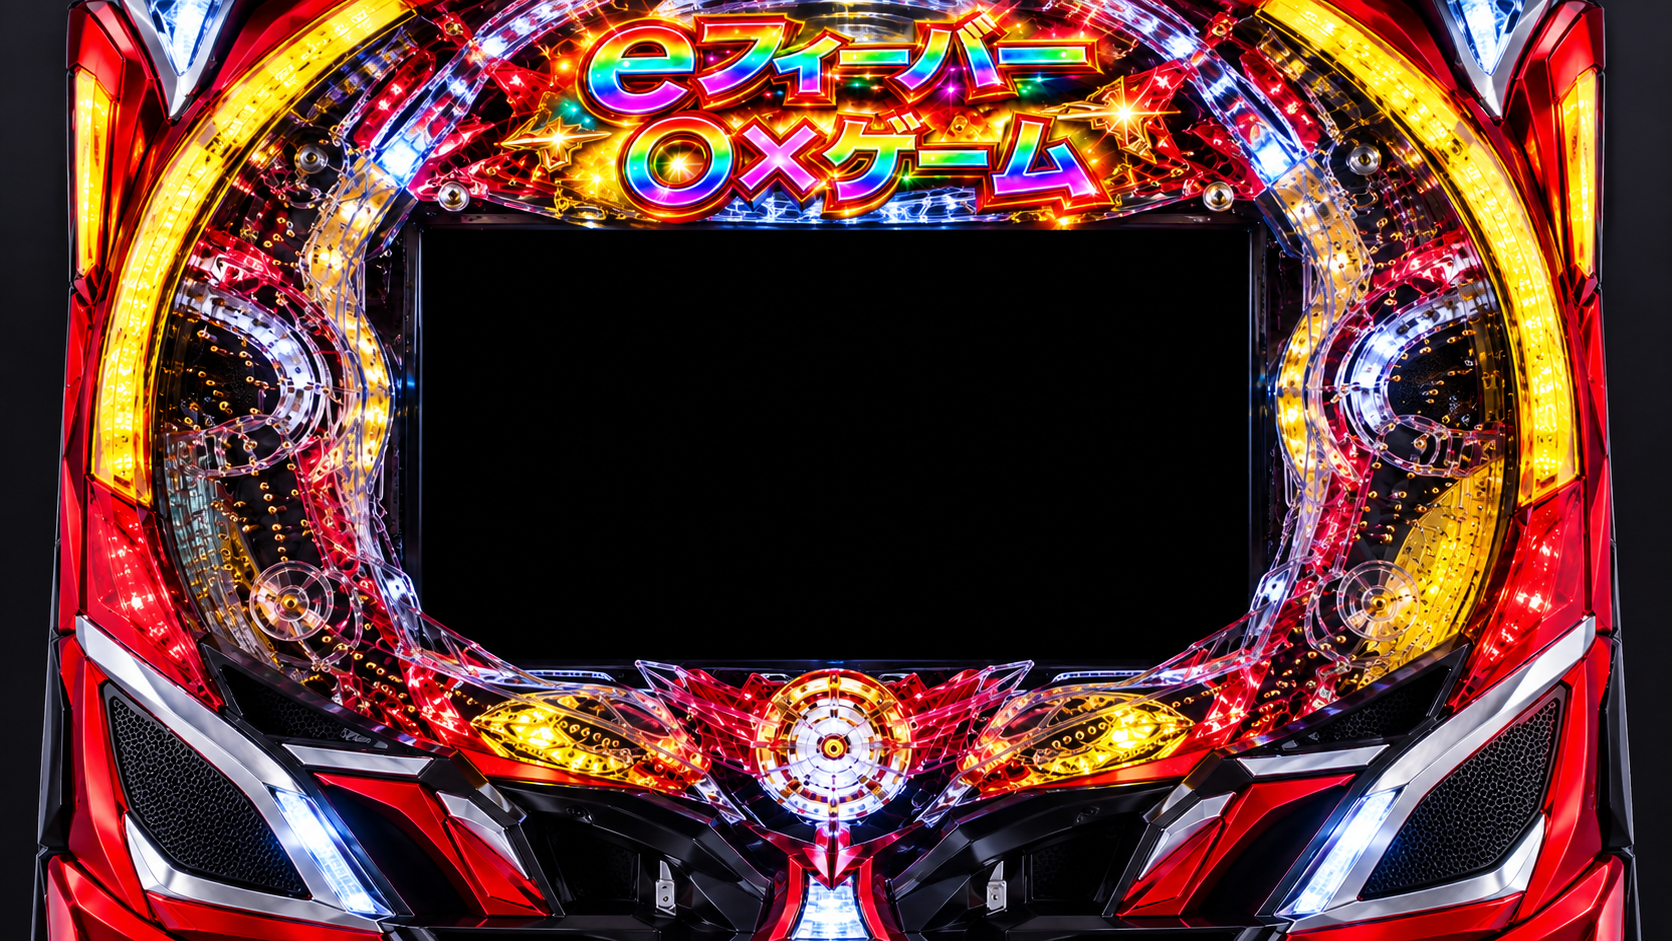
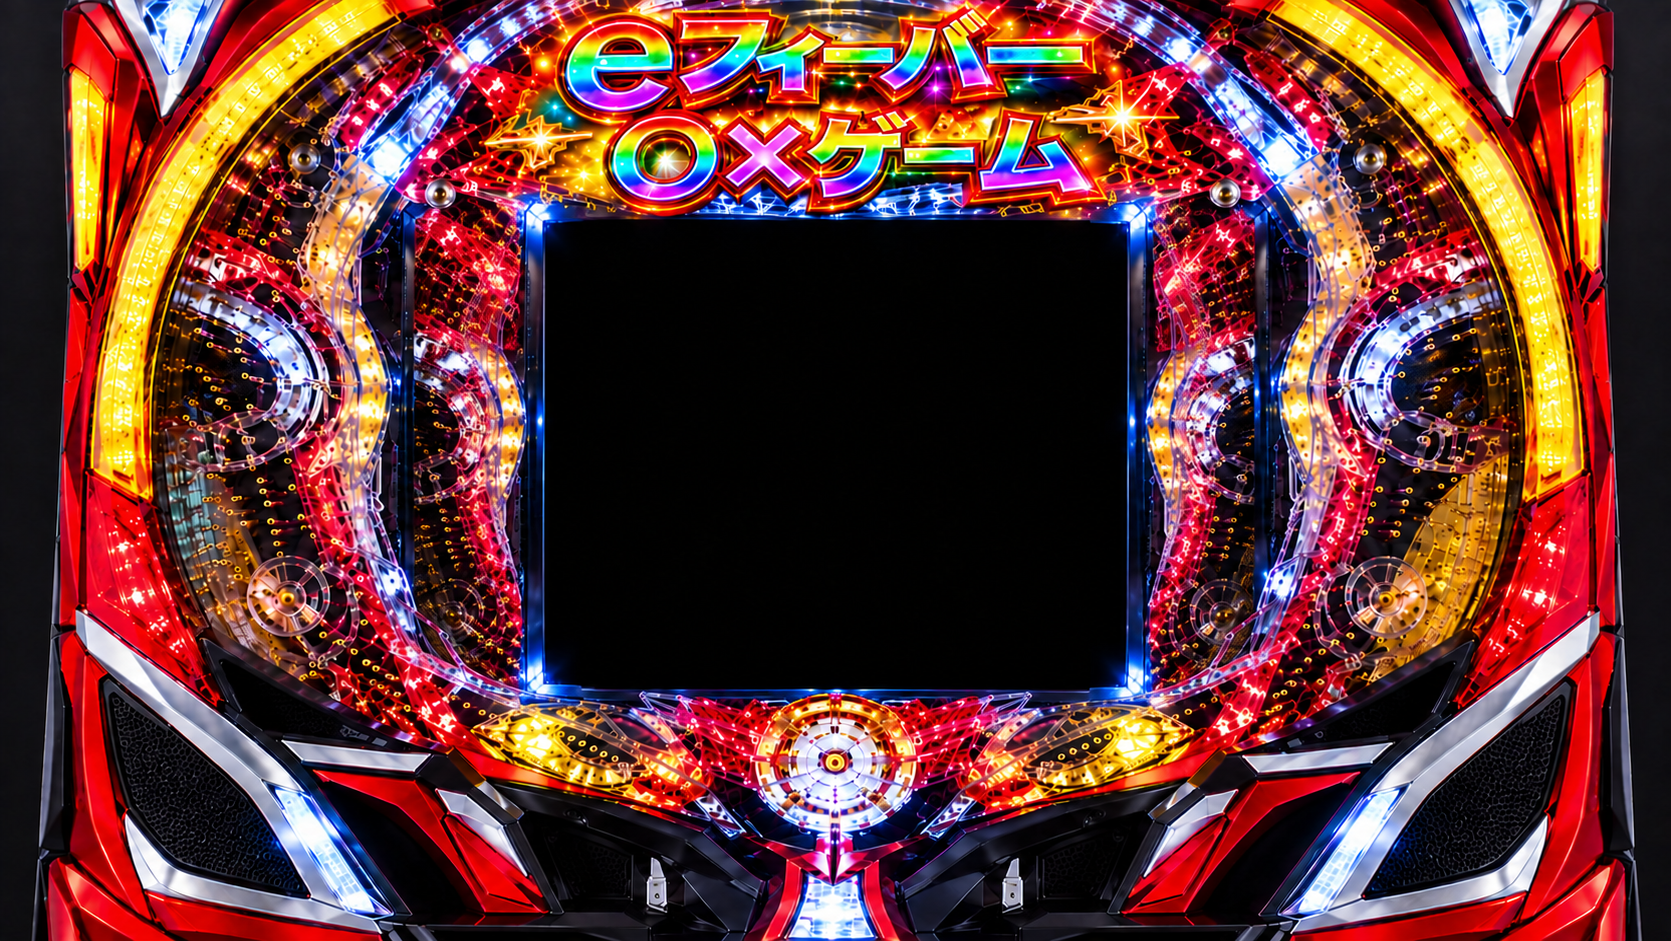
bg

diff --git a/ScenePlay.cpp b/ScenePlay.cpp
@@ -13,7 +13,7 @@ TM{TurnManager(key)}
 	hantenkakutei_image = LoadGraph("image/hantenkakutei.png");
 	puchun_image = LoadGraph("image/puchun.jpg");
 
-	BG = LoadGraph("image/bg.png");
+	BG = LoadGraph("image/play_bg.png");
 
 }
 
